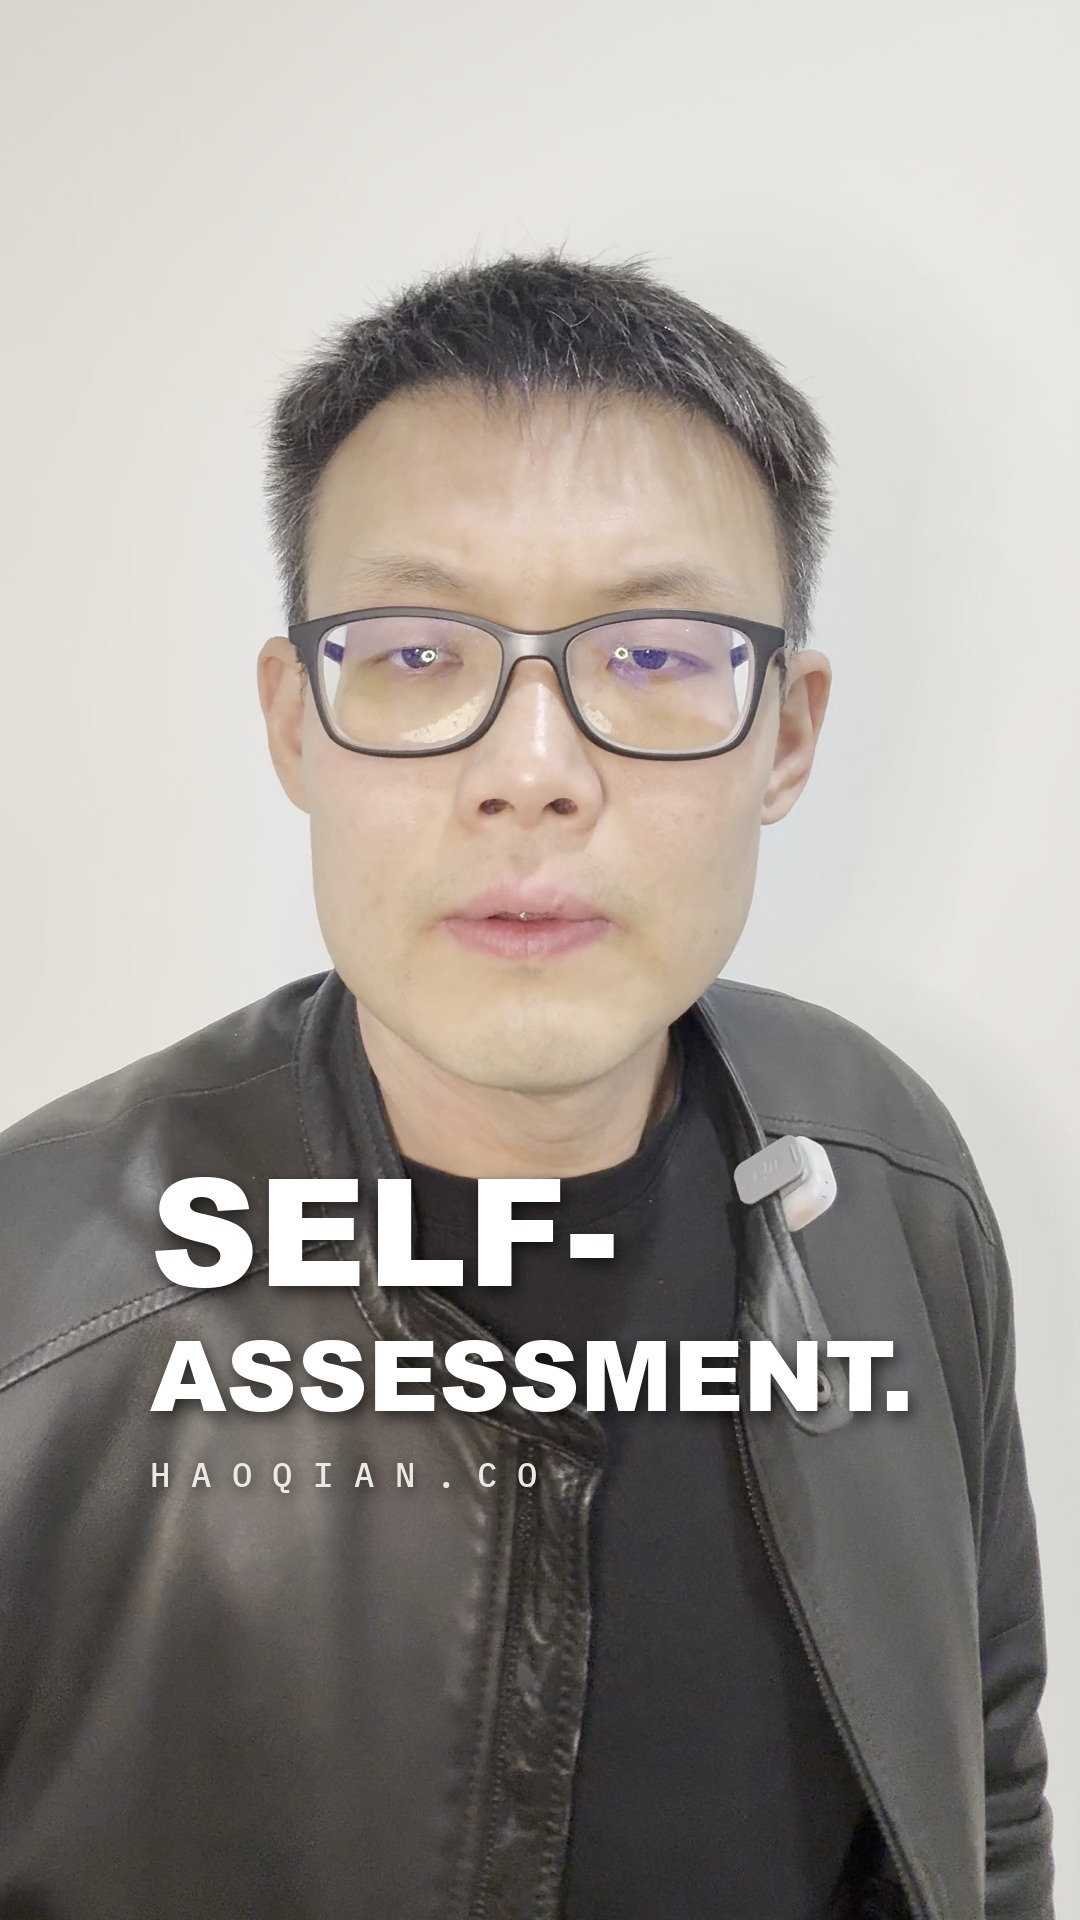
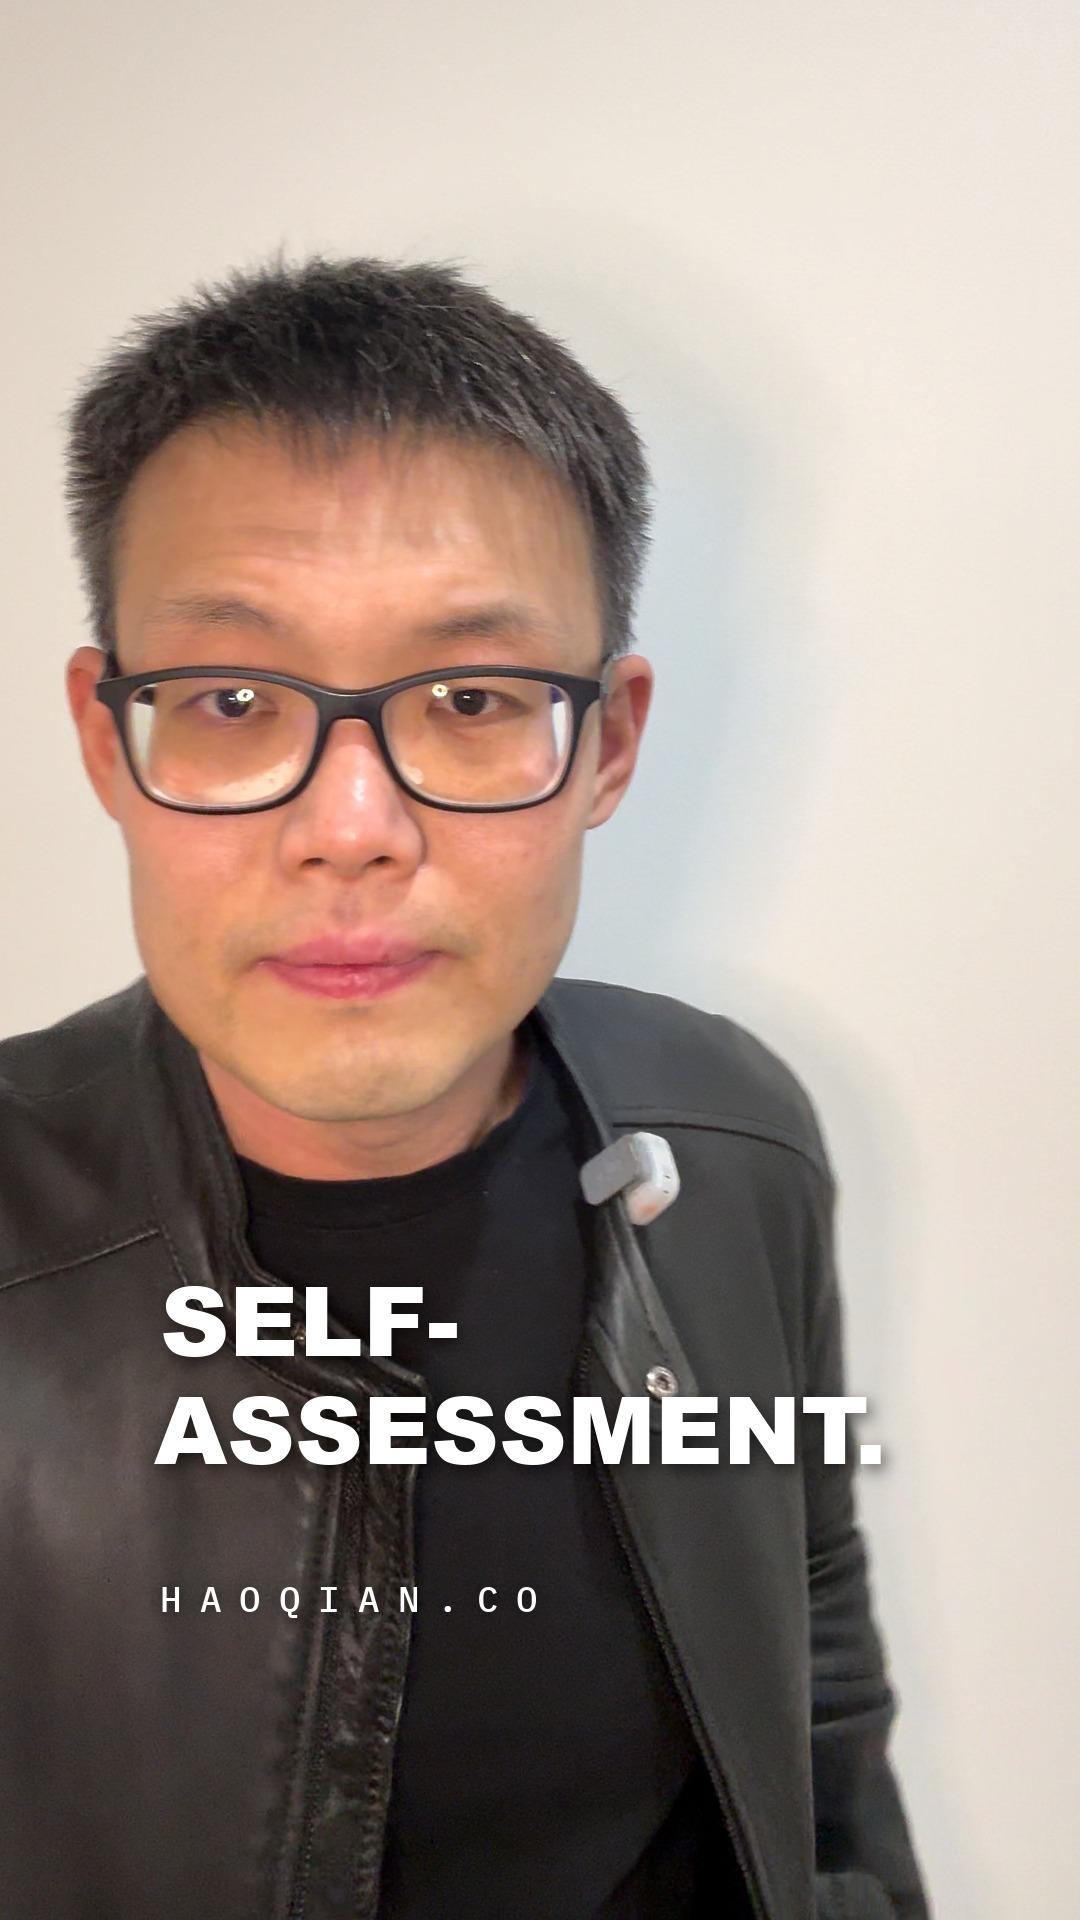
HDR stills get a real tone-map: hlg2sdr.py, the rule, and Ep. 11's poster fixed
Direct-camera MOVs are HLG; plain frame grabs read washed-grey (it
happened on Ep. 11 and again on the new unscripted cut). Thumbnails now
go through hlg2sdr.py; thumbnail.py learns width-fit for long titles.

diff --git a/scripts/video-pipeline/hlg2sdr.py b/scripts/video-pipeline/hlg2sdr.py
@@ -1,0 +1,24 @@
+#!/usr/bin/env python3
+"""HLG (BT.2100) frame -> SDR sRGB, for thumbnails from iPhone HDR takes.
+Usage: hlg2sdr.py <in.png rgb48 with HLG transfer, bt2020 primaries> <out>"""
+import sys, numpy as np
+from PIL import Image
+
+img = np.asarray(Image.open(sys.argv[1])).astype(np.float64)
+img = img / (65535.0 if img.max() > 255 else 255.0)
+# HLG inverse OETF -> scene-linear
+a, b, c = 0.17883277, 0.28466892, 0.55991073
+lin = np.where(img <= 0.5, (img ** 2) / 3.0, (np.exp((img - c) / a) + b) / 12.0)
+# mild system gamma (OOTF) + exposure for SDR
+lin = np.clip(lin, 0, None) ** 1.1
+lin *= 1.0 / np.percentile(lin, 99.5)          # normalize highlights
+lin = lin / (1.0 + 0.15 * lin)                 # soft rolloff
+# BT.2020 -> BT.709 primaries (in linear)
+M = np.array([[ 1.6605, -0.5876, -0.0728],
+              [-0.1246,  1.1329, -0.0083],
+              [-0.0182, -0.1006,  1.1187]])
+lin = np.clip(lin @ M.T, 0, 1)
+# sRGB encode
+srgb = np.where(lin <= 0.0031308, 12.92 * lin, 1.055 * lin ** (1 / 2.4) - 0.055)
+Image.fromarray((np.clip(srgb, 0, 1) * 255).round().astype(np.uint8)).save(sys.argv[2])
+print("ok", sys.argv[2])

diff --git a/scripts/video-pipeline/thumbnail.py b/scripts/video-pipeline/thumbnail.py
@@ -49,8 +49,19 @@ def shadow_text(base, xy, text, font, spacing=0):
 frame, line1, line2, out = sys.argv[1:5]
 img = cover(Image.open(frame).convert("RGB")).convert("RGBA")
 
-f1 = ImageFont.truetype(AB, 96)
-f2 = ImageFont.truetype(AB, 190)
+def fit(text, start):
+    # width-fit: long titles must never run off the frame (Ep. 11 lesson)
+    sz = start
+    f = ImageFont.truetype(AB, sz)
+    meas = ImageDraw.Draw(Image.new("RGB", (8, 8)))
+    while meas.textlength(text, font=f) > 1080 - 2 * X and sz > 40:
+        sz -= 6
+        f = ImageFont.truetype(AB, sz)
+    return f
+
+import sys as _sys
+f1 = fit(_sys.argv[2], 96)
+f2 = fit(_sys.argv[3], 190)
 fm = ImageFont.truetype(MONO, 36)
 
 shadow_text(img, (X, 1250), line1.upper(), f1)

diff --git a/docs/VIDEO_PUBLISHING_WORKFLOW.md b/docs/VIDEO_PUBLISHING_WORKFLOW.md
@@ -88,6 +88,18 @@ Check the episode page on a phone-width viewport as well as desktop.
    line. Make it with
    `python3 scripts/video-pipeline/thumbnail.py <frame.jpg> "LINE ONE" "LINE TWO." out.jpg`
    (cut the frame with `ffmpeg -ss <sec> -i <raw> -frames:v 1`, mouth
+   **HDR sources need a tone-map for every STILL (Hao's rule, 2026-09-02
+   — the washed-out thumbnail happened twice):** direct camera MOVs
+   (IMG_*.MOV) are HLG/BT.2020 10-bit; a plain ffmpeg PNG grab reads as
+   sRGB and comes out 惨白 (washed grey). Teleprompter-app MP4s are SDR
+   and unaffected. For any poster/thumbnail from an HDR take:
+   `ffmpeg -ss <t> -i <src> -frames:v 1 -vf "scale=...:in_color_matrix=bt2020"
+   -pix_fmt rgb48be raw.png` then
+   `scripts/video-pipeline/hlg2sdr.py raw.png sdr.png` (inverse HLG OETF,
+   highlight rolloff, BT.2020→709, sRGB encode) and build the card on the
+   SDR image. Check the JPEG against the playing video before shipping.
+   Frame choice for the standalone thumbnail: head level, mouth closed,
+   eyes open — it need not be frame 0 (only the BAKED cover must be).
    no burnt captions). **The opening recipe (final, after four rounds on
    Ep. 8 — every earlier variant produced a visible jump):**
 
